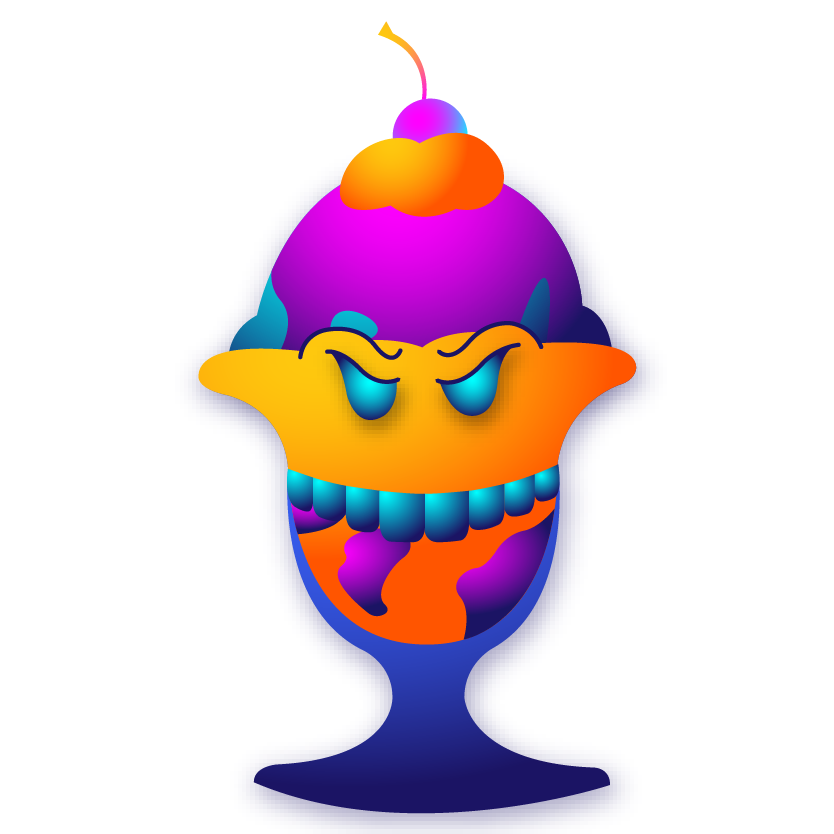
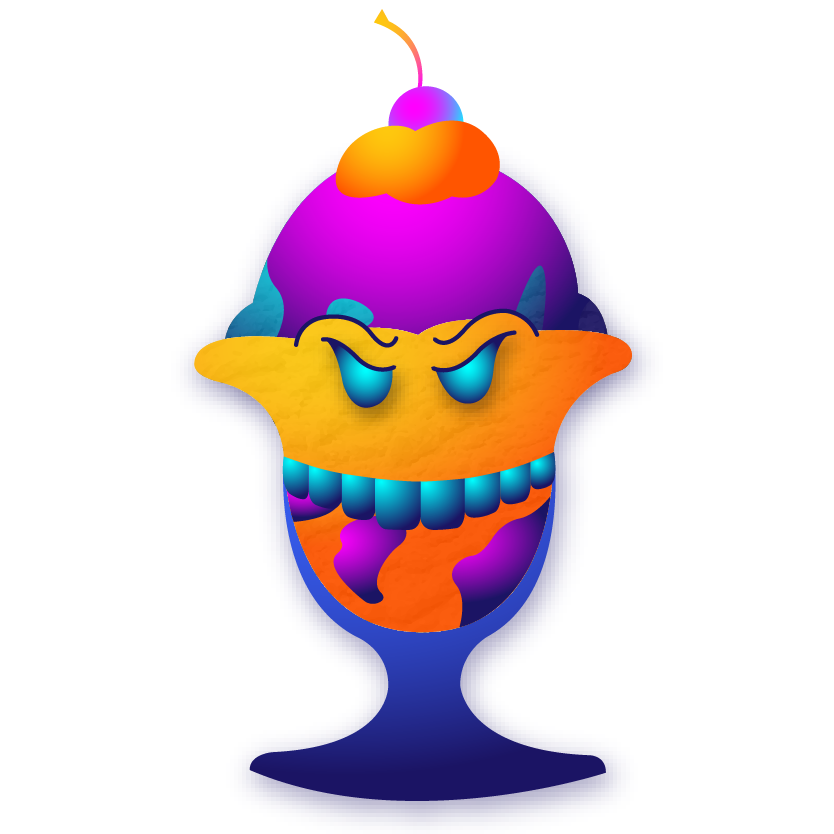
Centered character on page

diff --git a/src/main.ts b/src/main.ts
@@ -1,8 +1,8 @@
-import { enableProdMode } from '@angular/core';
-import { platformBrowserDynamic } from '@angular/platform-browser-dynamic';
+import {enableProdMode} from '@angular/core';
+import {platformBrowserDynamic} from '@angular/platform-browser-dynamic';
 
-import { AppModule } from './app/app.module';
-import { environment } from './environments/environment';
+import {AppModule} from './app/app.module';
+import {environment} from './environments/environment';
 
 declare global {
     interface String {
@@ -11,12 +11,14 @@ declare global {
 }
 
 String.prototype.toProperCase = function () {
-    return this.replace(/\w\S*/g, function(txt){return txt.charAt(0).toUpperCase() + txt.substr(1).toLowerCase();});
+    return this.replace(/\w\S*/g, function (txt) {
+        return txt.charAt(0).toUpperCase() + txt.substr(1).toLowerCase();
+    });
 };
 
 if (environment.production) {
-  enableProdMode();
+    enableProdMode();
 }
 
 platformBrowserDynamic().bootstrapModule(AppModule)
-  .catch(err => console.log(err));
+    .catch(err => console.log(err));

diff --git a/src/app/character-page/character-page.component.html b/src/app/character-page/character-page.component.html
@@ -1,4 +1,4 @@
-<div class="ui grid container">
+<div class="ui middle aligned grid container">
     <div class="eight wide computer sixteen wide tablet column">
         <div class="ui grid">
             <div class="sixteen wide column">

diff --git a/src/app/character-page/character-page.component.less b/src/app/character-page/character-page.component.less
@@ -1,3 +1,7 @@
+.ui.grid.container {
+  height: 82%;
+}
+
 #name-type {
   .image, .image img {
     width: 100px;
